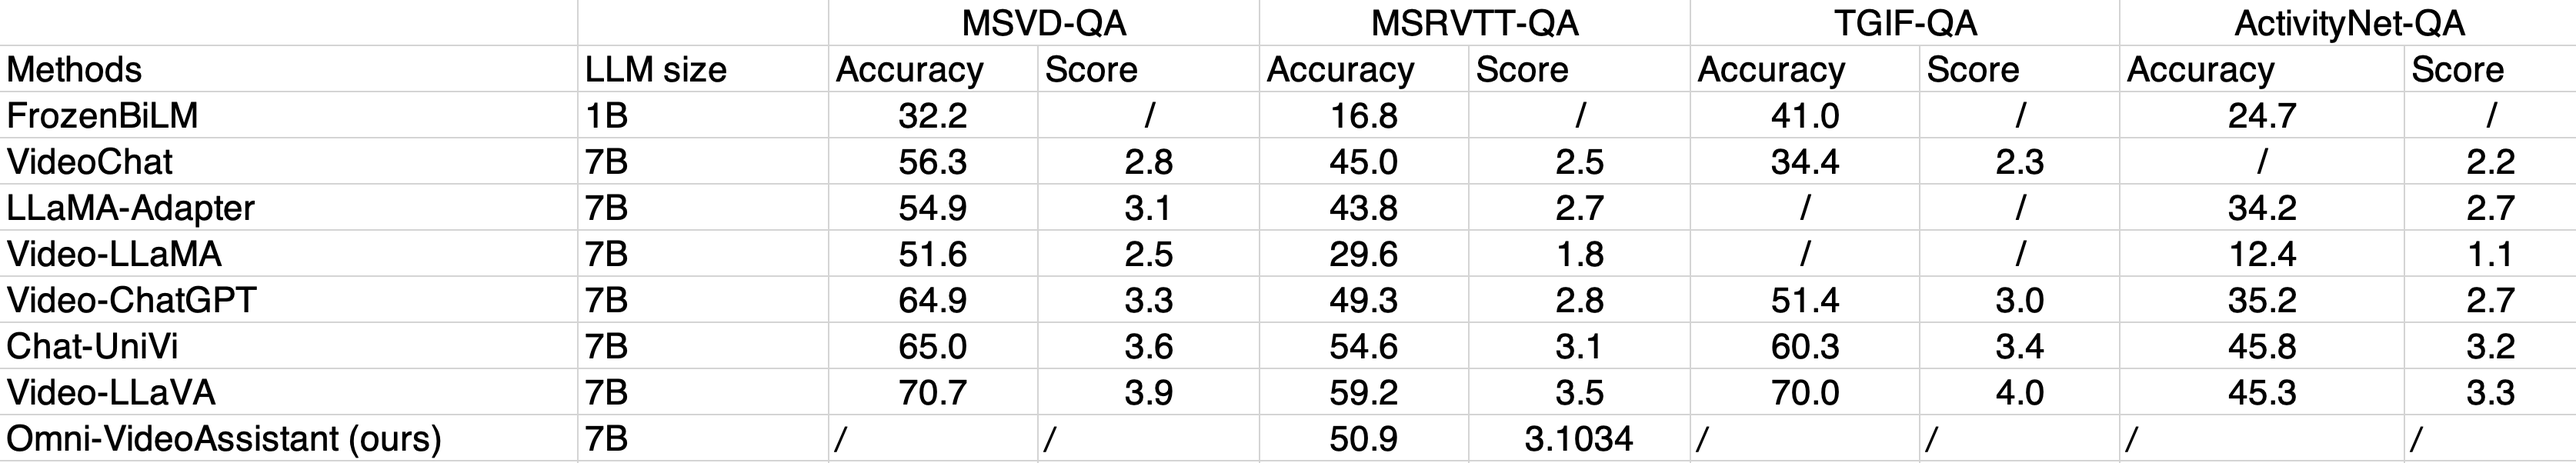
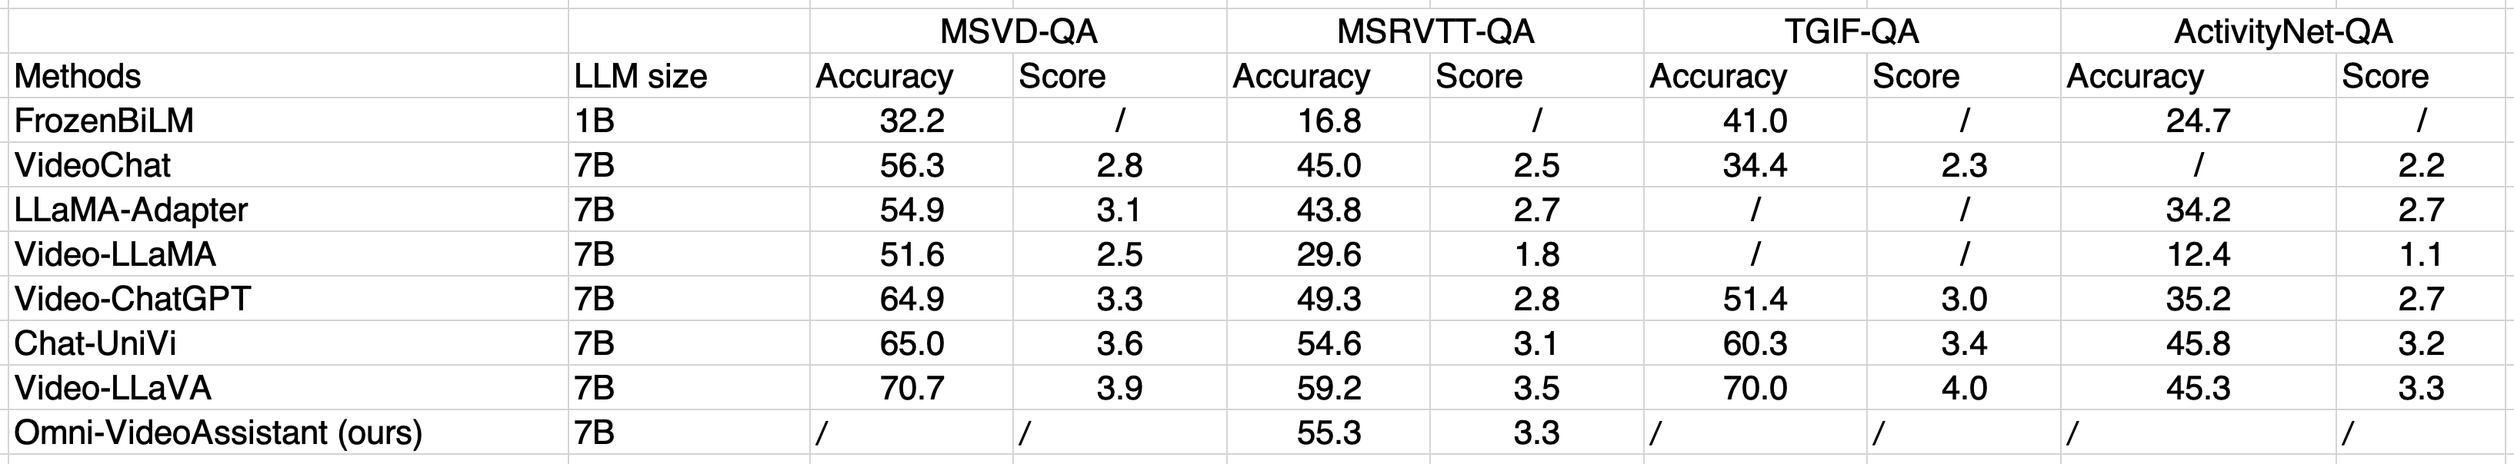
update result on 6.1

Changed region(s): [[0.0, 0.0, 1.0, 1.0]]

diff --git a/README.md b/README.md
@@ -55,7 +55,7 @@ CUDA_VISIBLE_DEVICES=0 python -m llava.eval.run_omni \
     --query "Describe the activity in the video"
 ```
 
-## 🔥 Results Comparision (based on model 5.3, evaluation on 6.1 is doing)
+## 🔥 Results Comparision
 ### Image understanding
 <p align="left">
 <img src="assets/val_img.png" width=100%>
